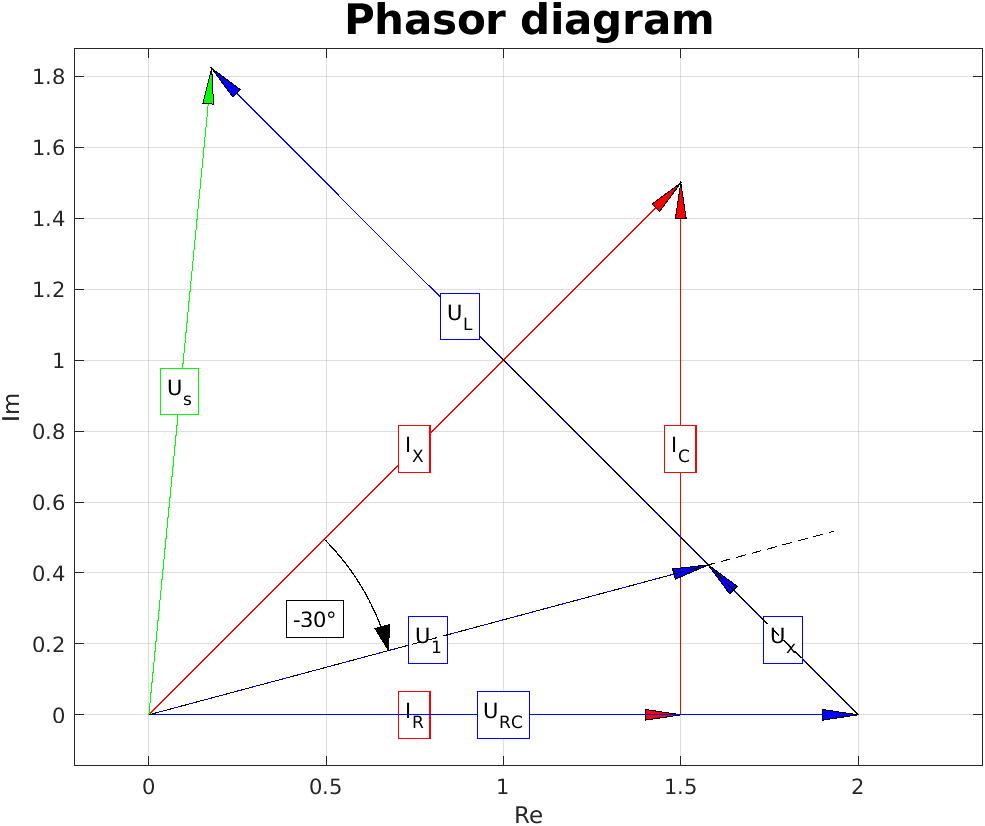
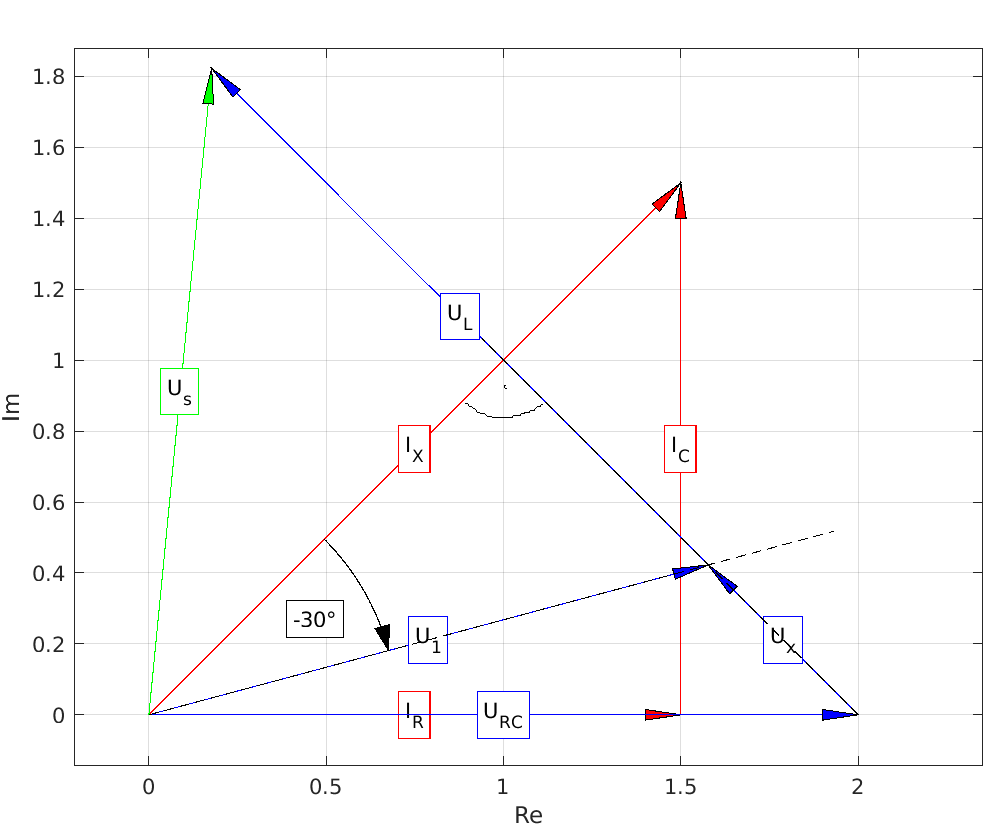
looks good

Changed region(s): [[0.335, 0.0, 0.731, 0.0605]]

diff --git a/UE05/latex/GRxx_UE05.tex b/UE05/latex/GRxx_UE05.tex
@@ -125,27 +125,31 @@ Graz University of Technology\\
 	$R = 100~\Omega$ \qquad $C=10~\mu\text{F}$ \qquad $L = 70~\text{mH}$ \qquad $U_0 = 30~\text{V}$ \qquad $\omega = 1000~\text{s}^{-1}$
 	\blfootnote{Deadline: 29.04.2021 - 9:00; presentation: team 5}
 	
-\begin{figure}[h!]
+\begin{figure}[!h]
 	\centering
 	\includegraphics[scale=0.8]{./Figures/homework5_circuit.eps}
 	\label{part1}
 	\caption{Given circuit}
 \end{figure}
+\clearpage
 \section{Solution}
 \subsection{Analytical calculations}
+\subsubsection{Derive the value of ? with a phasor diagramm}
 Assuming a Testvoltage $R_{RC, test} = 10V$ and letting $\varphi_{I_{R}}$ be $0$ degrees, we
 constructed a true to scale phasor diagram. Voltages are scaled by  $\frac{1}{5}$ and Currents by
-$15$. By constucting the diagram, it became clear, that the unknown element in Figure \ref{part1}
+$15$. By constucting the diagram, it became clear, that the unknown element in Figure \ref{part1}1
 has to be an inductor.
 
-\begin{figure}[h!]
+\begin{figure}[ht!]
 	\centering
 	\includegraphics[scale=0.8]{./Figures/phasors_1.png}
 	\label{phasor_dia_1}
 	\caption{Phasor Diagramm with $\varphi_{I_{R}} = 0$}
 \end{figure}
 
-\newpage
+\clearpage
+\subsubsection{Derive the value of ? analytically}
+
 
 Now we calculate the value of the unknown element. We know from above it has to be a coil.
 Note, that $X_C = \frac{-1}{\omega C}$
@@ -178,7 +182,8 @@ We divide by $\omega$ in order to get L, because $X_L = \omega L$
 \end{align*}
 \newpage
 \clearpage
-We have to set up an equation $f(R, X_{L}, X_{C}) = X_x$, that always meets the condition
+\subsubsection{Conditions for ? to be a capacitor}
+We have to set up a function $f(R, X_{L}, X_{C}) = X_x$, that always meets the condition
 $\varphi_{U_{1}} = \varphi_{I_{x}} - 30^{\circ}$. $X_L$ now has to be named  $X_{x}$, since it is
 variable and could go negative, which would meen $X_{x}$ represents a capacitor. First thing, that
 comes apparent is, that $X_{x}$ is not dependent on $X_{L}$.
@@ -187,9 +192,35 @@ comes apparent is, that $X_{x}$ is not dependent on $X_{L}$.
 .\] 
 Let it be $0$, to find out which values make the reactance be inductive and which make it
 capacitive. 
-
+\[
+  f(R,X_{C}) \overset{!}{=} 0
+.\] 
+We specifiy $R$, to always be positiv an $X_{C}$ to always be negativ, in order to keep those values
+stand for a resistor and a real capacitor. Since the denominator $3R^2 + 3X_{C}^2$ cannot be
+negtive, we get this equation.
+\[
+  0 = -3R^2X_{C} - \sqrt{3}RX_{C}^2
+.\]
+After rearranging, we get
+\[
+  R = -\frac{\sqrt{3}}{3} X_{C},\, \text{or} \quad X_{C} = -\frac{3}{\sqrt{3}} R
+.\] 
+If those conditions are met, we do not need an aditional element , for $U_{1}$ to be in the right
+phase with $I_{x}$. If we set $R$ to be $100 \Omega$,
+then $X_{C} = -173,205\Omega$, which correlates to a capacitance of around $5.77 F$. Now if $X_{C}$ gets
+even smaller (That means the capacitance gets smaller), then $X_{x}$, our unknown element, will be a
+capacitor, in order to meet the $-30$ degree phase condition. \\
+That means $X_{x}$ is a capacitive, if
+\[
+  X_{C} < -\frac{3}{\sqrt{3}} R,\, \text{or} \quad R < -\frac{\sqrt{3}}{3}X_{C}
+\] 
+and inductive, if
+\[
+  X_{C} > -\frac{3}{\sqrt{3}} R,\, \text{or} \quad R > -\frac{\sqrt{3}}{3}X_{C}
+.\] 
 \clearpage
-We calculate every current and volatge in the circuit.
+\subsubsection{Calculate everything else}
+We calculate every current and voltage in the circuit.
 \begin{align*}
 	\underline{Z_{ges}} = \underline{Z_L} + \frac{\underline{Z_R} \cdot \underline{Z_C}}{\underline{Z_R} + \underline{Z_C}} + \underline{Z_{L_x}}
 	= X_L + \frac{R \cdot X_C}{R + X_C} + X_{L_x}\\
@@ -201,9 +232,13 @@ We calculate every current and volatge in the circuit.
 	u_{RC} = i_R \cdot \underline{Z_R}\\
 	u_x = u_1 - u_{RC}\\
 \end{align*}
+\subsection{Matlab}
+\subsubsection{Source code}
 We use Matlab to calculate the currents and voltages from above:
 \lstinputlisting[language=matlab]{./../matlab/assignment5.m}
 We get the following results:
+\clearpage
+\subsubsection{Output}
 \lstinputlisting[language=matlab]{./../matlab/Assignment5.txt}
 
 Now we can plot a true-to-scale phasor diagram:
@@ -215,11 +250,12 @@ Now we can plot a true-to-scale phasor diagram:
 	\caption{true-to-scale phasor diagram}
 \end{figure}
 
-We can see, that the relation of the phasors to themselves are the same as in figure 2, only the coordinate system
-"changed".
+We can see, that the relation of the phasors to themselves are the same as in figure 2, only the
+coordinate system rotated. We used the Matlab script provided in lecture 5, to plot the phasor
+diagramms.
 
 \clearpage
-\section{Ltspice simulation}
+\subsection{Ltspice simulation}
 In ltspice we can verify, that the phase shift between $\varphi_{I_{x}}$ and $\varphi_{U_{1}}$
 really is $-30$ degrees. \\
 \begin{figure}[h!]
